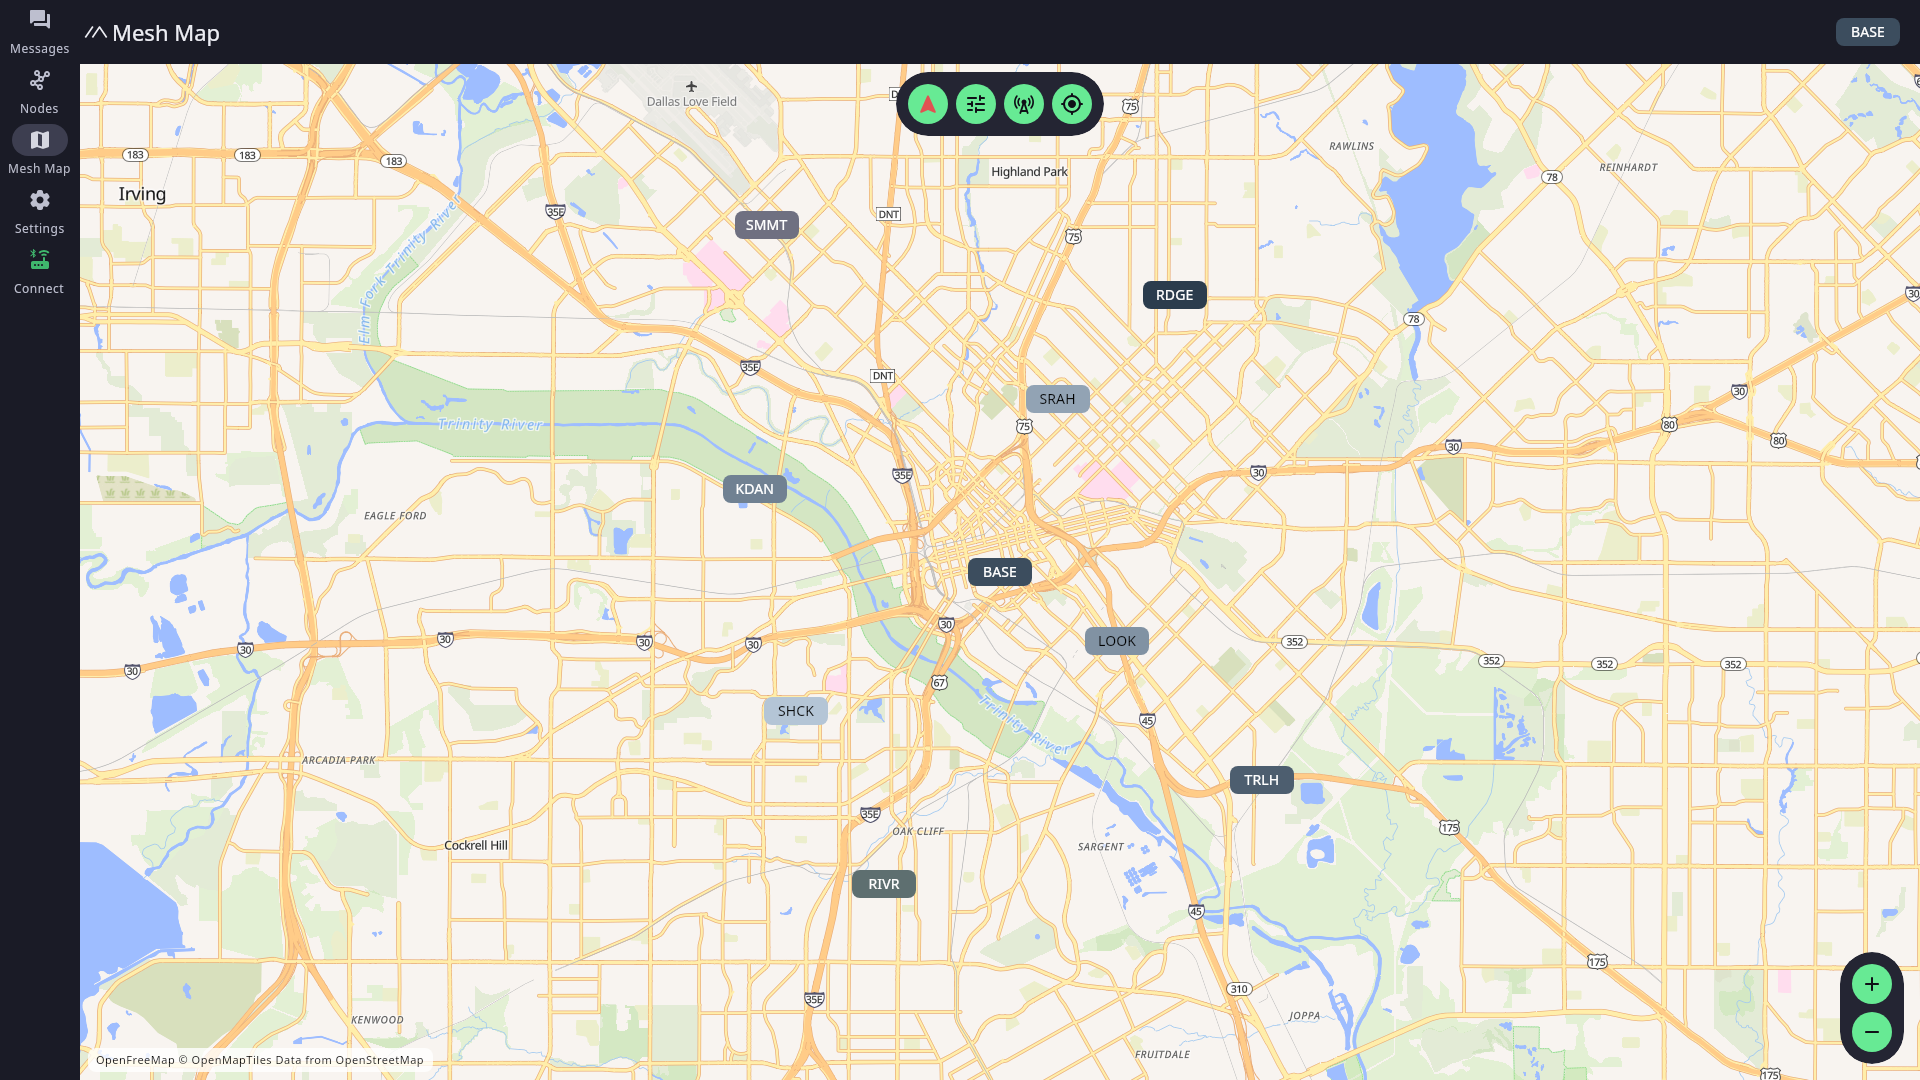
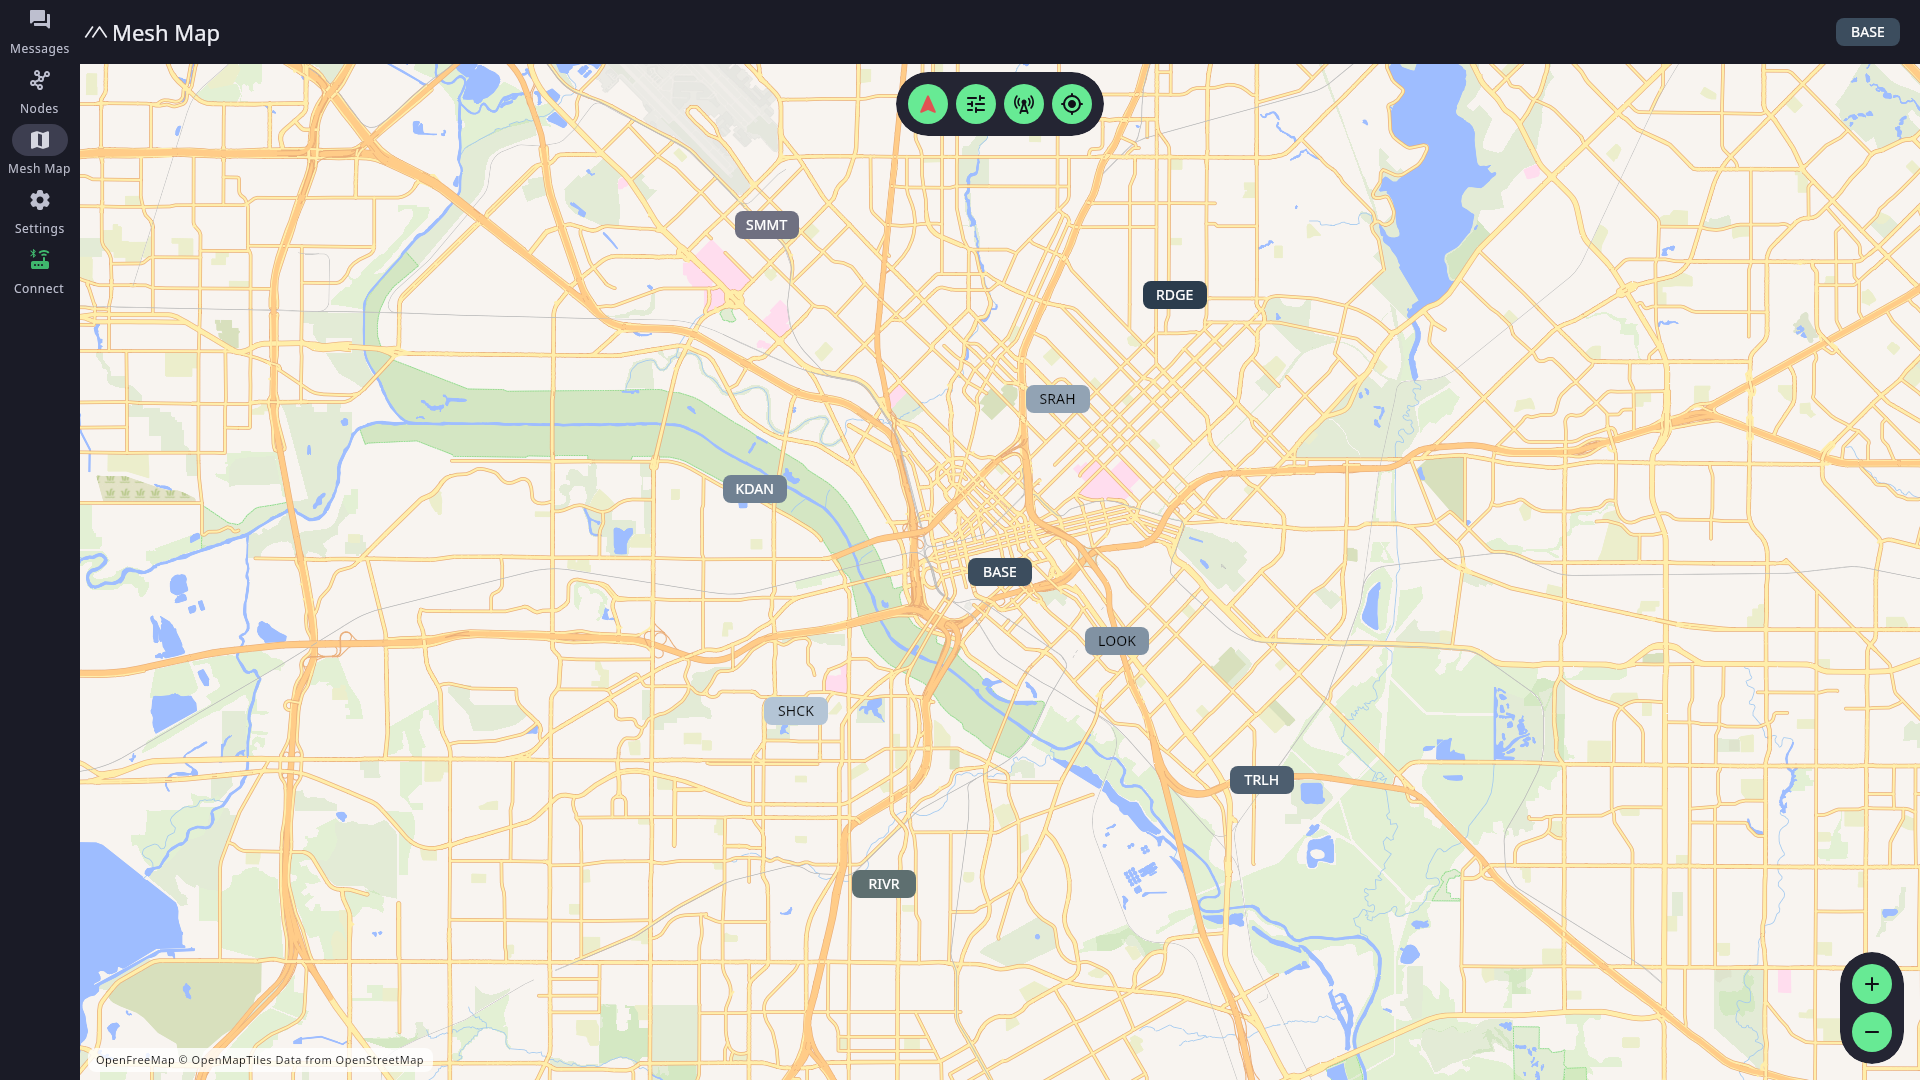
feat(store): drop the basemap's text layers so the maps reproduce
The four wide maps came out in four different states over five runs, each
differing from the next by a dozen pixels, all one level apart, all at the
edges of labels: MapLibre packs glyphs into its atlas in the order the tiles
that need them arrive, and the sub-texel position a glyph lands at moves its
antialiased edge. A second capture from the same runtime always matches the
first, so the old settle loop could not see it; capturing from fresh runtimes
over a shared tile cache can, and showed that neither retrying nor a single
font stack converges. Without text layers there is no glyph atlas, and three
runs are byte-identical on every form factor. Roads, water, parks and the
node chips are unchanged, and the phone map loses only its shields and
street names, so all five form factors share one basemap rather than a
labelled phone beside blank tablets.

The settle loop now runs across runtimes and fails the generation when a map
cannot settle, so a regression cannot commit a file that will not reproduce.

diff --git a/marketing-screenshots/src/main/kotlin/org/meshtastic/screenshot/marketing/MapSnapshot.kt b/marketing-screenshots/src/main/kotlin/org/meshtastic/screenshot/marketing/MapSnapshot.kt
@@ -28,6 +28,11 @@ import kotlinx.coroutines.runBlocking
 import kotlinx.coroutines.withContext
 import kotlinx.coroutines.withTimeout
 import kotlinx.io.files.Path
+import kotlinx.serialization.json.Json
+import kotlinx.serialization.json.JsonArray
+import kotlinx.serialization.json.JsonObject
+import kotlinx.serialization.json.jsonArray
+import kotlinx.serialization.json.jsonObject
 import org.maplibre.compose.camera.CameraPosition
 import org.maplibre.compose.map.LocalMapState
 import org.maplibre.compose.map.MapRuntime
@@ -38,6 +43,7 @@ import org.maplibre.compose.style.BaseStyle
 import org.maplibre.spatialk.geojson.Position
 import org.meshtastic.feature.map.maplibre.layers.NodeLayers
 import org.meshtastic.feature.map.maplibre.style.Basemaps
+import java.net.URI
 import java.nio.file.Files
 
 /** One capture: the map area in dp at the screen density, and the zoom the form factor asks for. */
@@ -93,8 +99,26 @@ internal object MapSnapshot {
         }
     }
 
+    /**
+     * The app's default basemap with its text layers removed. MapLibre packs glyphs into an atlas in the order the
+     * tiles that need them arrive, and the sub-texel position a glyph lands at moves its antialiased edge pixels by one
+     * level: the five maps came out in four different states over five runs, every one differing from the next by a
+     * dozen pixels at label edges, and no amount of settling can pick one. Without text layers there is no glyph atlas,
+     * and three runs are byte-identical on every form factor. Roads, water, parks and the node chips are unaffected. To
+     * put the labels back for a one-off (a website hero, say), use `BaseStyle.Uri(Basemaps.Liberty. styleUri)` here and
+     * accept that the file will not reproduce.
+     */
+    private val baseStyle: BaseStyle by lazy {
+        val root = Json.parseToJsonElement(URI(Basemaps.Liberty.styleUri).toURL().readText()).jsonObject
+        val layers =
+            root.getValue("layers").jsonArray.filter { layer ->
+                val layout = layer.jsonObject["layout"]?.jsonObject
+                layout == null || "text-field" !in layout
+            }
+        BaseStyle.Json(Json.encodeToString(JsonObject.serializer(), JsonObject(root + ("layers" to JsonArray(layers)))))
+    }
+
     private suspend fun MapRuntime.capture(area: MapArea, mesh: SampleMesh): ImageBitmap {
-        val baseStyle = BaseStyle.Uri(Basemaps.Liberty.styleUri)
         // NodeLayers reads LocalMapState (for cluster clicks) and rasterizes chips with a TextMeasurer; the
         // snapshotter's own composition provides neither, so both are supplied here.
         val mapState = createMapState(baseStyle)
